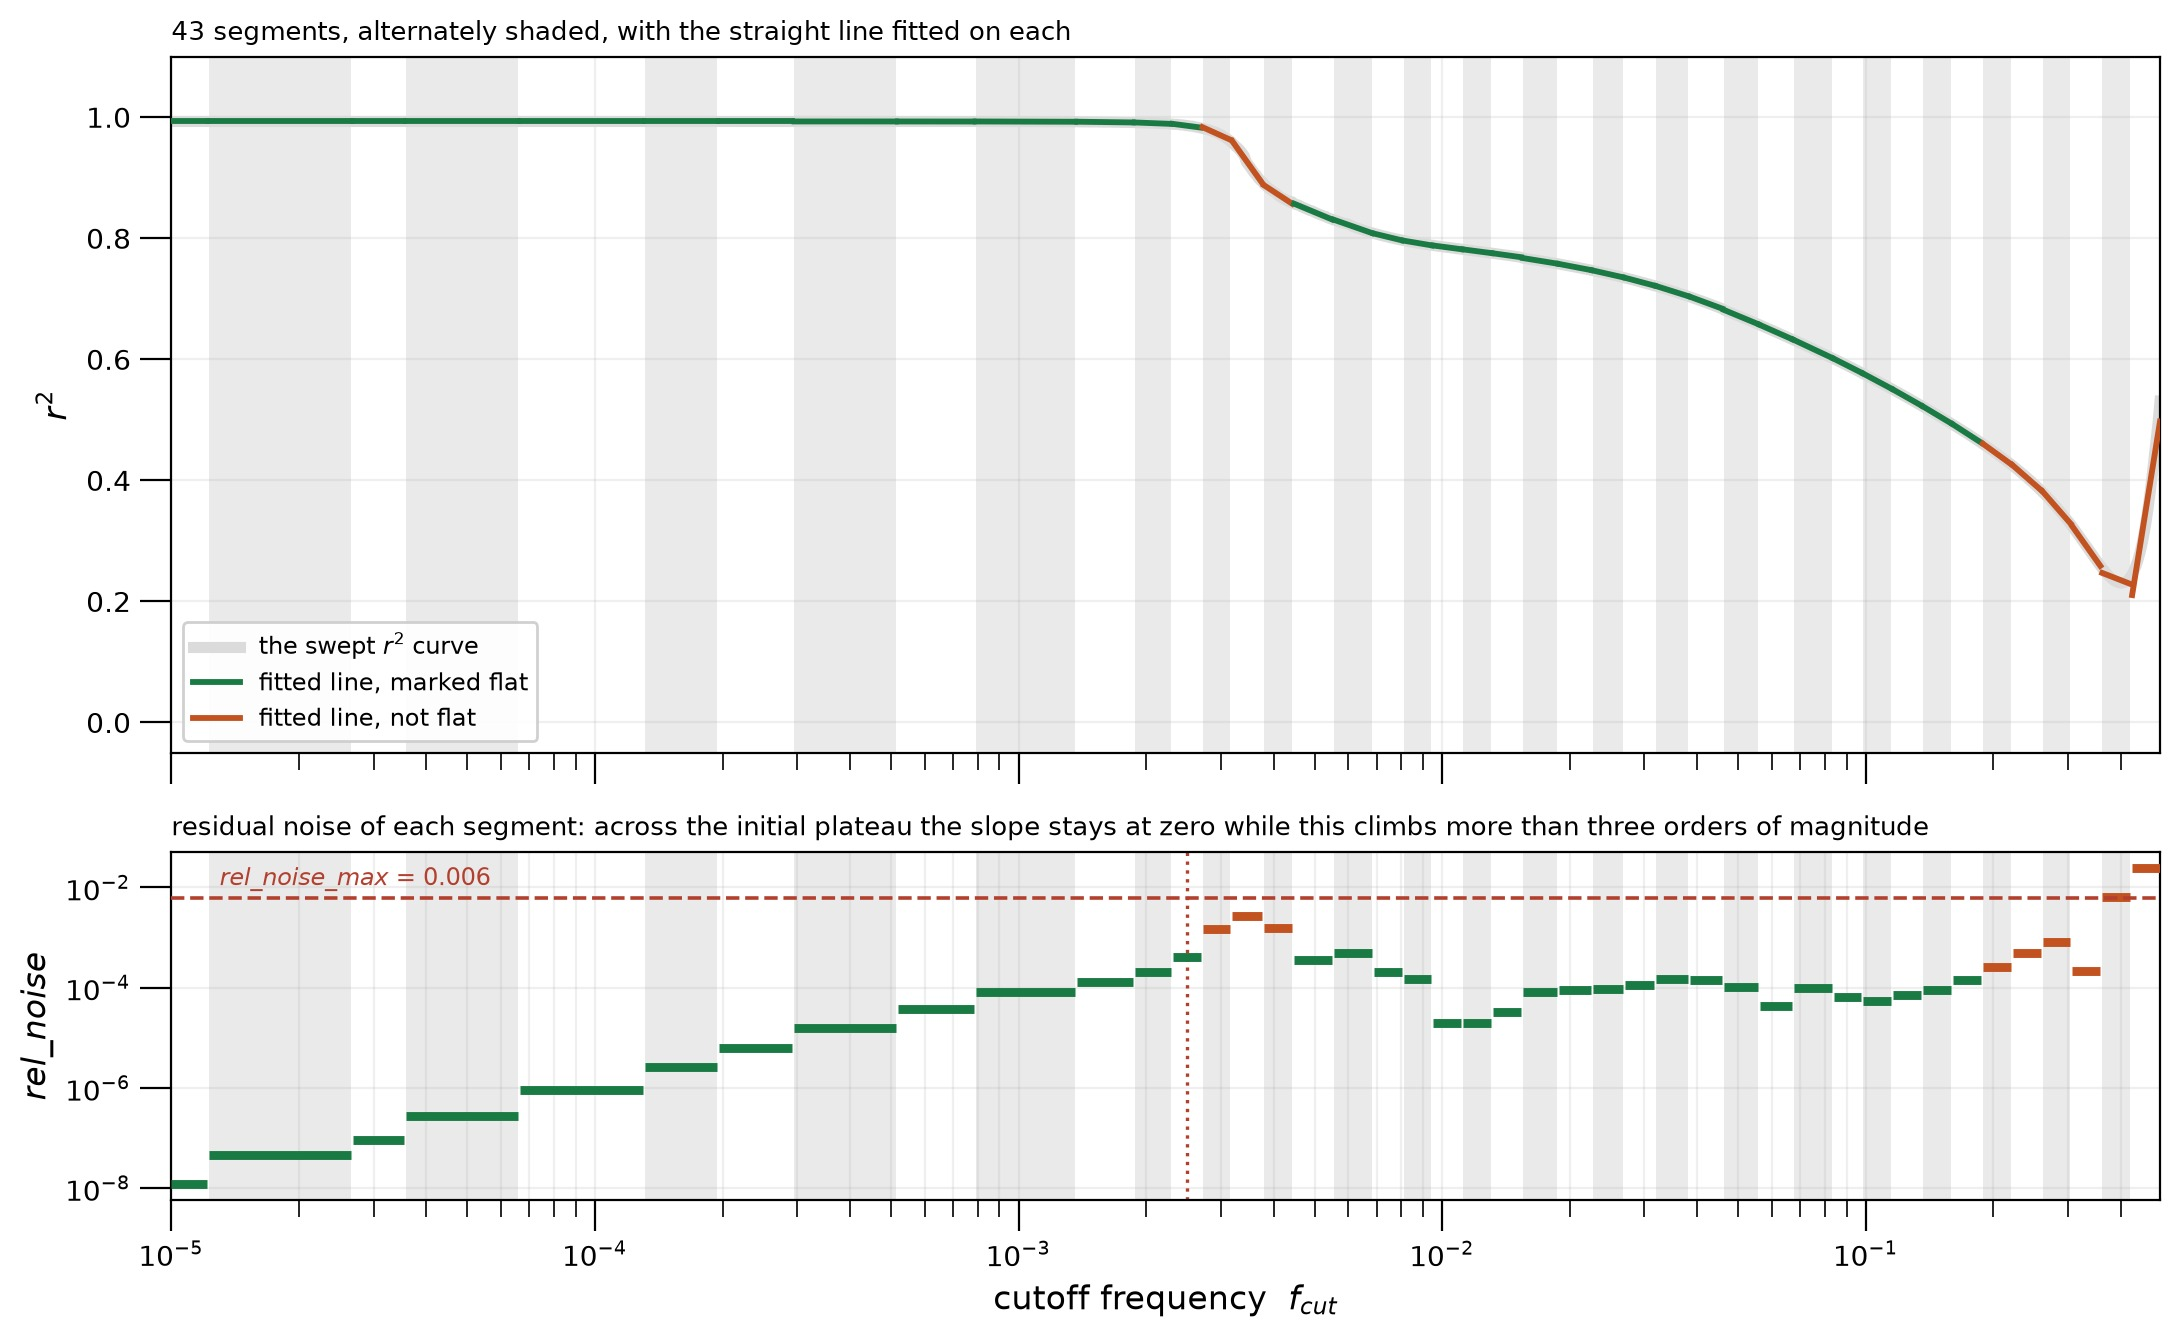
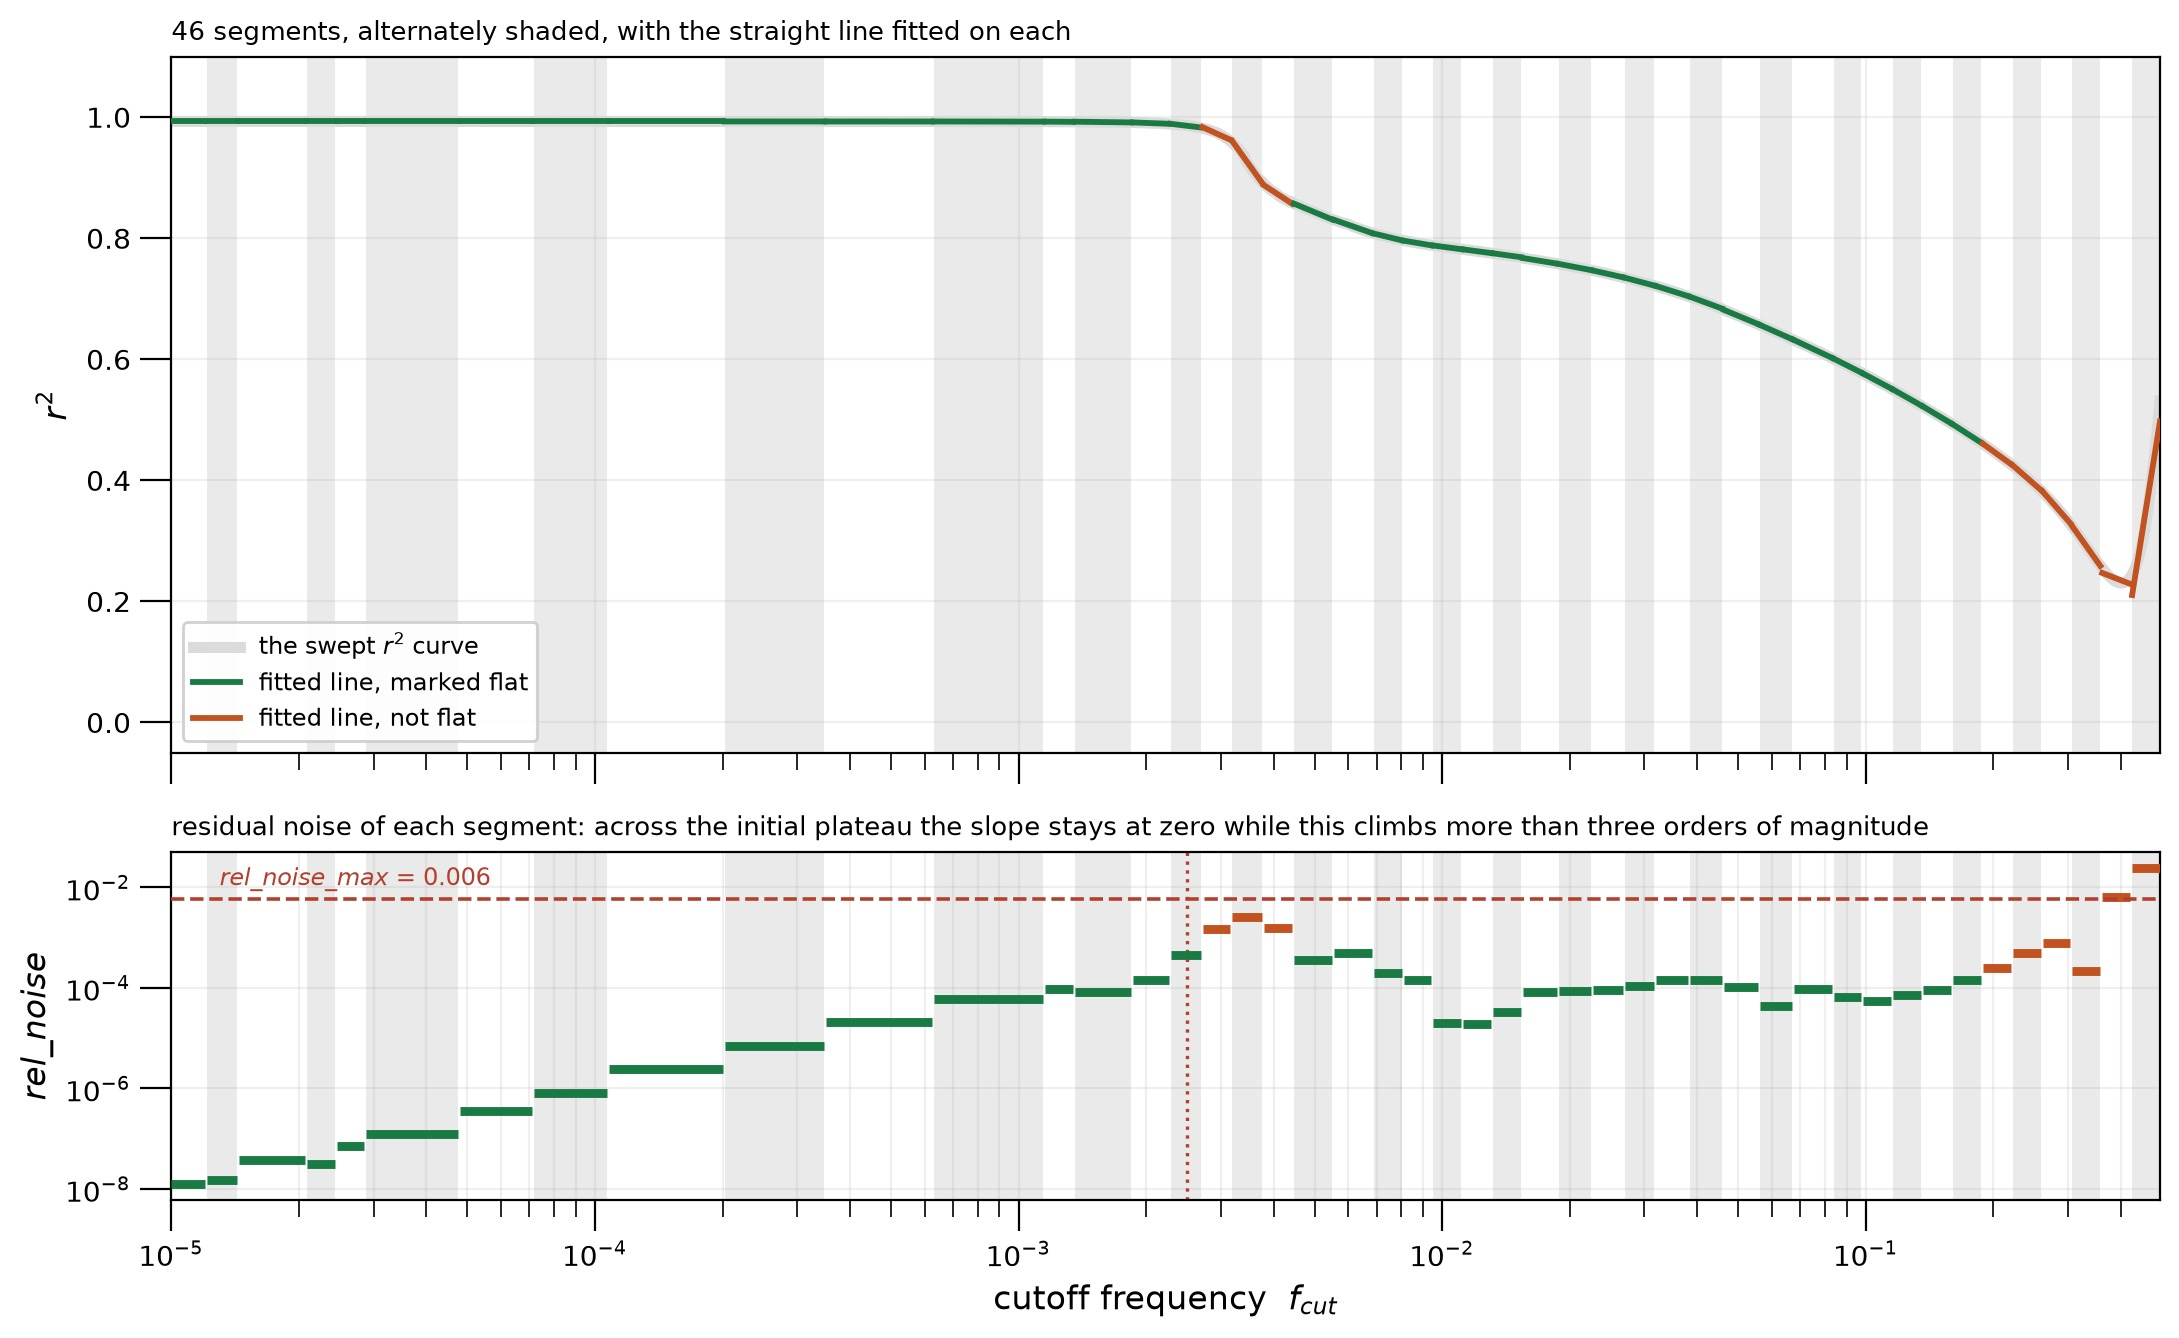
FIX: Repoint the figure scripts to the 2026-10-19 runs
The 2026-08-24 runs were replaced by sweeps made on pybaselines
4e21860b9 with numba and deleted, so the scripts read
PROD_2026-10-19_23559213 and SYNTH_2026-10-19_23559214 instead. The
figures are re-rendered from them.

diff --git a/tools/fcut/figures/potential/qo_all.py b/tools/fcut/figures/potential/qo_all.py
@@ -2,7 +2,7 @@
 Every generated signal, drawn once and filed under both classifications.
 
 Renders the production merged figure for all 432 signals of
-SYNTH_ERB_2026-08-18 against runs/SYNTH_2026-08-24, then files each
+SYNTH_ERB_2026-08-18 against runs/SYNTH_2026-10-19_23559214, then files each
 image twice:
 
   by_rmse/    Emmanuel's edges on `e_min`, the RMSE between the baseline
@@ -52,7 +52,7 @@ from weaselytics.parsers import ParsedData  # noqa: E402
 from weaselytics.plot import plot, r2_plots  # noqa: E402
 
 ROOT = '/home/esteban/Simulation/DFT/separation_part2'
-RUN = os.path.join(ROOT, 'runs/SYNTH_2026-08-24')
+RUN = os.path.join(ROOT, 'runs/SYNTH_2026-10-19_23559214')
 DS = os.path.join(ROOT, 'SYNTH_ERB_2026-08-18')
 OUT = os.path.join(ROOT, 'MERGED/QUASIOPT_2026-08-24')
 SCRATCH = os.path.dirname(os.path.abspath(__file__))

diff --git a/tools/fcut/figures/potential/qo2_score.py b/tools/fcut/figures/potential/qo2_score.py
@@ -23,7 +23,7 @@ taking it over the whole support scores the trimming instead.
 A null drawn uniformly in log over the same region is reported, without
 which none of the ratios can be read.
 
-Run: runs/SYNTH_2026-08-24, generated at parabola_len=3 (commit 1cd50fe).
+Run: runs/SYNTH_2026-10-19_23559214, generated at parabola_len=3.
 """
 
 import csv
@@ -42,7 +42,7 @@ from weaselytics.baseline import _snr  # noqa: E402
 from weaselytics.parsers import ParsedData  # noqa: E402
 
 ROOT = '/home/esteban/Simulation/DFT/separation_part2'
-RUN = os.path.join(ROOT, 'runs/SYNTH_2026-08-24')
+RUN = os.path.join(ROOT, 'runs/SYNTH_2026-10-19_23559214')
 DS = os.path.join(ROOT, 'SYNTH_ERB_2026-08-18')
 OUT = os.path.dirname(os.path.abspath(__file__))
 RMSE_MAX = 0.05

diff --git a/tools/fcut/figures/fig_stage23.py b/tools/fcut/figures/fig_stage23.py
@@ -17,7 +17,7 @@ from weaselytics.segmentation import (  # noqa: E402
     segment_features, select_center, trim_plateaus)
 
 CACHE = ('/home/esteban/Simulation/DFT/separation_part2/runs/'
-         'PROD_2026-08-24/r2_cache')
+         'PROD_2026-10-19_23559213/r2_cache')
 OUT = os.path.dirname(os.path.abspath(__file__))
 STEM = 'Chlorobenzene__LPYE__60-70__2'
 N_USED, DPI = 400, 200

diff --git a/tools/fcut/figures/fig_stage1.py b/tools/fcut/figures/fig_stage1.py
@@ -25,7 +25,7 @@ from weaselytics.segmentation import (  # noqa: E402
     classify_segments, pelt_linear, segment_features)
 
 CACHE = ('/home/esteban/Simulation/DFT/separation_part2/runs/'
-         'PROD_2026-08-24/r2_cache')
+         'PROD_2026-10-19_23559213/r2_cache')
 OUT = os.path.dirname(os.path.abspath(__file__))
 STEM = 'Chlorobenzene__LPYE__60-70__2'
 DPI = 200

diff --git a/tools/fcut/figures/fig_diag.py b/tools/fcut/figures/fig_diag.py
@@ -24,7 +24,7 @@ from weaselytics.parsers import ParsedData  # noqa: E402
 OUT = os.path.dirname(os.path.abspath(__file__))
 STEM = 'Chlorobenzene__LPYE__60-70__2'
 CACHE = ('/home/esteban/Simulation/DFT/separation_part2/runs/'
-         'PROD_2026-08-24/r2_cache')
+         'PROD_2026-10-19_23559213/r2_cache')
 
 
 def main():

diff --git a/tools/fcut/figures/fig_stages.py b/tools/fcut/figures/fig_stages.py
@@ -28,7 +28,7 @@ from weaselytics.segmentation import (  # noqa: E402
 )
 
 CACHE = ('/home/esteban/Simulation/DFT/separation_part2/runs/'
-         'PROD_2026-08-24/r2_cache')
+         'PROD_2026-10-19_23559213/r2_cache')
 OUT = os.path.dirname(os.path.abspath(__file__))
 STEM = 'Chlorobenzene__LPYE__60-70__2'
 N_USED = 400

diff --git a/tools/fcut/figures/fig_vocab.py b/tools/fcut/figures/fig_vocab.py
@@ -32,7 +32,7 @@ from weaselytics.segmentation import (  # noqa: E402
 )
 
 CACHE = ('/home/esteban/Simulation/DFT/separation_part2/runs/'
-         'PROD_2026-08-24/r2_cache')
+         'PROD_2026-10-19_23559213/r2_cache')
 OUT = os.path.dirname(os.path.abspath(__file__))
 STEM = 'Chlorobenzene__LPYE__60-70__2'
 N_USED = 400
